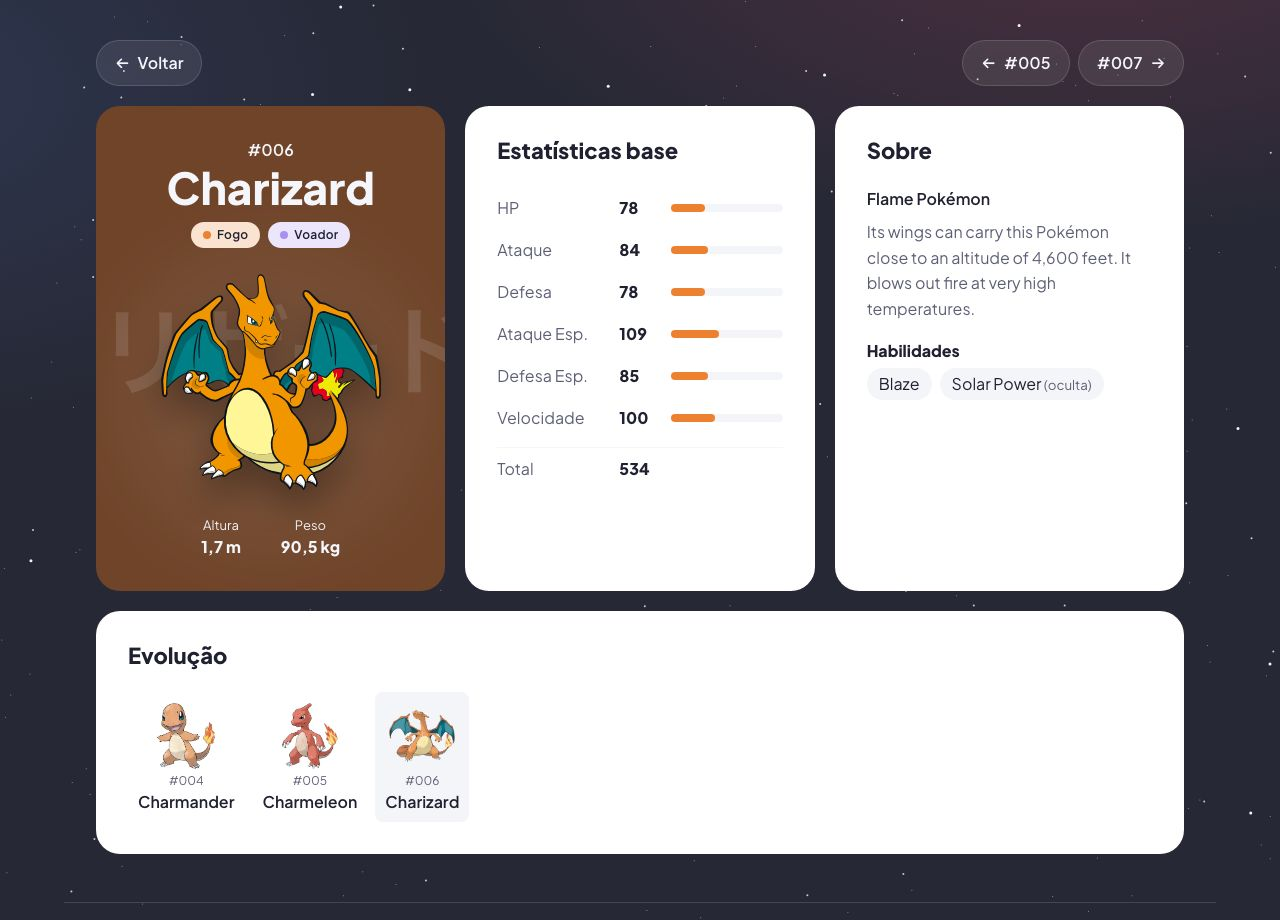
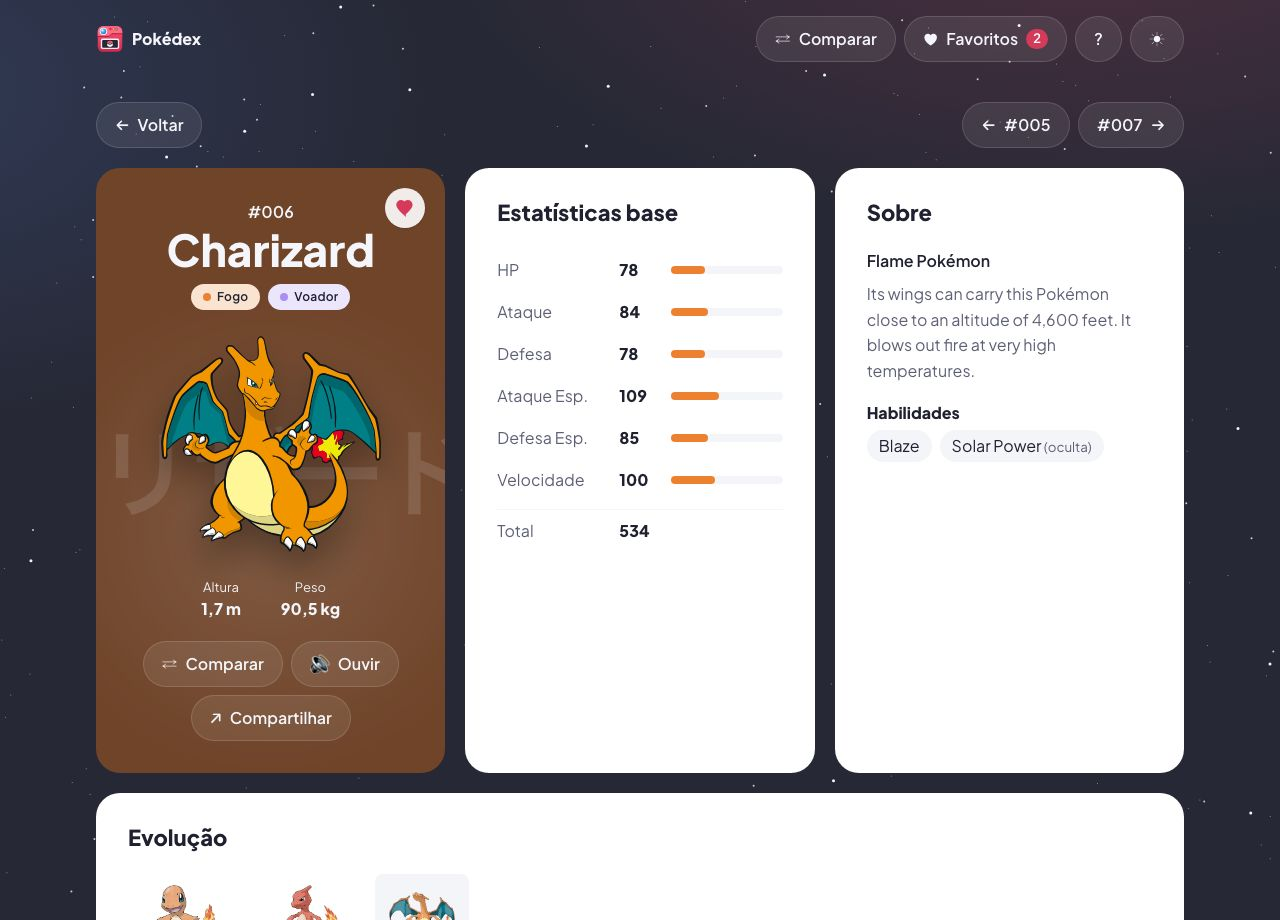
docs: describe the new features, build and tests in the README
Favourites, comparison, sorting, themes, cry and share buttons, PWA,
prerendering with link previews, robots/sitemap, the accessibility
audit, `npm run data`, the production-only e2e checks, and how Vercel
builds the site. Screenshots refreshed.

diff --git a/README.md b/README.md
@@ -10,8 +10,8 @@
 </div>
 
 <p align="center">
-  <img src=".github/assets/home.jpg" alt="Home page filtered by the Fire type: search box, a row of type filters and a grid of Pokémon cards coloured by type, over an animated starry background" width="49%">
-  <img src=".github/assets/details.jpg" alt="Details page for Charizard: previous and next buttons, type-coloured hero with height and weight, base stat bars, an About panel with category, description and abilities, and the evolution chain" width="49%">
+  <img src=".github/assets/home.jpg" alt="Home page filtered by the Fire type: header with Compare, Favourites, shortcuts and theme buttons, search box, type filters, the order select and a grid of Pokémon cards coloured by type with heart buttons, over an animated starry background" width="49%">
+  <img src=".github/assets/details.jpg" alt="Details page for Charizard: previous and next buttons, type-coloured hero with a favourite heart, height and weight, Compare, Listen and Share buttons, base stat bars, an About panel with category, description and abilities, and the evolution chain" width="49%">
 </p>
 
 ## Features
@@ -20,11 +20,17 @@
 - **Search across the whole Pokédex** — by name (`chu` finds Pikachu, Raichu, Pichu…) or by number (`25`, `#150`), including Pokémon that aren't on screen yet. Press <kbd>/</kbd> to jump to the search box and the × button to clear it; it stays at the top while you scroll.
 - **Forgiving search** — a typo with no exact match suggests look-alike names (`pikachuu` → *Você quis dizer:* Pikachu).
 - **Filter by type** — the 18 types, in Portuguese, combine with the search; each type on a details page links to the filtered list.
-- **Shareable state** — the search and the type live in the URL (`?q=char&tipo=fire`), so they survive a refresh or a shared link.
+- **Sort** — by number, name, stat total (highest first) or type, combined with the search and the filter.
+- **Shareable state** — the search, the type and the order live in the URL (`?q=char&tipo=fire&ordem=total`), so they survive a refresh or a shared link.
 - **Coming back where you left off** — *Voltar* returns to the list with the same cards loaded and the same scroll position.
-- **Details page** — Pokédex number, types, height and weight, base stats with proportional bars and their total, category, Pokédex description and abilities (hidden one marked), and a clickable evolution chain (branches such as Eevee's side by side). Previous/next buttons, also on the <kbd>←</kbd> <kbd>→</kbd> keys, browse the Pokédex.
+- **Details page** — Pokédex number, types, height and weight, base stats with proportional bars and their total, category, Pokédex description and abilities (hidden one marked), and a clickable evolution chain (branches such as Eevee's side by side). Previous/next buttons, also on the <kbd>←</kbd> <kbd>→</kbd> keys, browse the Pokédex. Play the Pokémon's cry, or share its page (system share sheet, or the link is copied).
+- **Favourites** — a heart on every card and detail page; *Meus favoritos* lists them (kept in the browser, synced across tabs).
+- **Compare** — up to three Pokémon side by side, their base stats overlaid on a radar chart and in a table (`/comparar?ids=1,4,7`).
+- **Light and dark themes** — following the system until you pick one in the header.
+- **Installable and offline** — a PWA: the app and the Pokémon you've visited work without a connection.
+- **Fast first paint and link previews** — the list and all 1025 detail pages are prerendered at build time, with OpenGraph/Twitter Card tags per Pokémon, a `sitemap.xml` and a `robots.txt`.
 - **Loading, empty and error states** everywhere, with a *retry* when the API is unreachable, and a *page not found* for unknown URLs.
-- **Polished, accessible UI** — cards and pages coloured by type, an animated starry sky, keyboard focus styles, screen-reader labels and announcements, a back-to-top button, and `prefers-reduced-motion` support.
+- **Polished, accessible UI** — cards and pages coloured by type, an animated starry sky, a skip link, keyboard shortcuts (press <kbd>?</kbd>), focus styles, screen-reader labels and announcements, a back-to-top button, and `prefers-reduced-motion` support. Audited with axe (WCAG 2.2 AA) in both themes.
 - **Lean networking** — details, types and evolution chains are cached, requests nobody waits for are cancelled, and the search is debounced.
 
 > The PokéAPI has no Portuguese texts, so the category, description and ability names are shown in English (marked `lang="en"`). Types and stats are translated by the app. See [Known limitations](#known-limitations).
@@ -56,10 +62,11 @@ Then open `http://localhost:4200/`. The app reloads automatically when you chang
 | Command                | Description                                                         |
 | ---------------------- | ------------------------------------------------------------------- |
 | `npm start`            | Start the dev server at `http://localhost:4200/`                    |
-| `npm run build`        | Production build to `dist/pokedex/browser/`                         |
+| `npm run build`        | Production build to `dist/pokedex/browser/`: prerenders every page, checks them, writes `robots.txt` and `sitemap.xml` |
 | `npm run watch`        | Incremental development build                                       |
 | `npm test`             | Run the unit tests with Vitest                                      |
 | `npm run test:e2e`     | Run the end-to-end tests with Playwright (see [Testing](#testing))  |
+| `npm run data`         | Regenerate `src/assets/data/pokemon-summary.json` (stat totals and types, for sorting) |
 | `npm run build-github` | Production build into `docs/` for GitHub Pages (see [Deployment](#deployment)) |
 
 ## Project structure
@@ -68,28 +75,36 @@ Then open `http://localhost:4200/`. The app reloads automatically when you chang
 src/
 ├── app/
 │   ├── models/          # Typed PokéAPI responses
-│   ├── service/         # PokeApiService — the only API layer (index, cached details)
+│   ├── service/         # PokeApiService (the only API layer), favourites, theme, SEO tags
 │   ├── pages/
 │   │   ├── home/        # Hero + Pokémon list
 │   │   ├── details/     # Pokémon details, previous/next
+│   │   ├── favorites/   # Meus favoritos
+│   │   ├── compare/     # Side-by-side comparison
 │   │   └── not-found/   # Page for unknown URLs
 │   ├── shared/
 │   │   ├── poke-list/   # Search, type filter, look-alike names, infinite scroll, states
 │   │   ├── poke-card/   # A card that loads its own Pokémon
 │   │   ├── poke-search/ # Debounced search box with clear button and "/" shortcut
-│   │   ├── poke-stats/  # Base stats with bars and total
 │   │   ├── poke-about/  # Category, description and abilities
 │   │   ├── poke-evolution/ # Evolution chain
+│   │   ├── poke-header/ # Top bar: home, compare, favourites, shortcuts, theme
+│   │   ├── poke-favorite/, poke-share/, poke-cry/ # Heart, share and cry buttons
+│   │   ├── poke-radar/  # Radar chart of base stats
+│   │   ├── poke-shortcuts/ # Keyboard shortcuts dialog
+│   │   ├── poke-stats/  # Base stats with bars and total
 │   │   ├── poke-footer/ # Credits
 │   │   ├── directives/  # InViewportDirective (infinite scroll trigger)
 │   │   └── pipes/       # DexNumberPipe (#001), SpritePipe (artwork fallback), TypeNamePipe (pt-BR)
-│   ├── app.config.ts
+│   ├── app.config.ts    # + app.config.server.ts, app.routes.server.ts (prerendering)
 │   └── app.routes.ts
-├── assets/              # Icons, illustrations
+├── assets/              # Icons, illustrations, data/pokemon-summary.json
 ├── config-scss/         # Global SCSS: tokens, reset, type colours, starfield, animations…
 └── styles.scss
 e2e/                     # Playwright end-to-end tests (*.e2e.ts)
-scripts/github-pages.mjs # Post-build step for the GitHub Pages deploy
+scripts/                 # Post-build checks, robots/sitemap, data and GitHub Pages steps
+ngsw-config.json         # Service worker caching (PWA)
+vercel.json              # Vercel build, output and fallback
 docs/                    # Built site served by GitHub Pages
 ```
 
@@ -101,7 +116,7 @@ docs/                    # Built site served by GitHub Pages
 npm test
 ```
 
-Specs live next to their subject (`*.spec.ts`) and cover the API service (caching, cancellation), the list (paging, search, type filter, look-alike names, URL sync, restoring the loaded cards, states), cards, the details page and its panels, the search box, the infinite-scroll directive and the pipes. To run a single file or test:
+Specs live next to their subject (`*.spec.ts`) and cover the API service (caching, cancellation, prerender state transfer), the list (paging, search, type filter, sorting, look-alike names, URL sync, restoring the loaded cards, loading states), cards, the details page and its panels, favourites, comparison, theme, SEO tags, shortcuts, the search box, the infinite-scroll directive and the pipes. To run a single file or test:
 
 ```bash
 npx ng test --include='**/poke-list.component.spec.ts'
@@ -115,9 +130,10 @@ npx playwright install chromium   # once
 npm run test:e2e
 ```
 
-The suite in `e2e/` drives Chromium through search, the type filter, the details page and coming back to the list. It uses the dev server (a running `npm start` is reused, otherwise one is started) and the real PokéAPI, so it needs internet access. To test a deployed site instead:
+The suite in `e2e/` drives Chromium through search, the type filter, sorting, the details page, coming back to the list, favourites and comparison, and runs an accessibility audit (axe, WCAG 2.2 AA, both themes) with keyboard checks. It uses the dev server (a running `npm start` is reused, otherwise one is started) and the real PokéAPI, so it needs internet access. Some checks need a production build and are skipped on the dev server: `robots.txt`/`sitemap.xml`, the link-preview tags in the prerendered HTML, and the PWA (manifest, offline). Run them against a build, served locally or deployed:
 
 ```bash
+npm run build
 E2E_BASE_URL=https://pokedex.mocah.com.br npm run test:e2e
 ```
 
@@ -125,9 +141,9 @@ A failed test keeps a trace in `test-results/`; open the report with `npx playwr
 
 ## Deployment
 
-The live app, [pokedex.mocah.com.br](https://pokedex.mocah.com.br/), is built and published by Vercel on every push to `main` (default `npm run build`, base href `/`).
+The live app, [pokedex.mocah.com.br](https://pokedex.mocah.com.br/), is built and published by Vercel on every push to `main`, as set in `vercel.json`: `npm run build` prerenders the list and the 1025 detail pages into static HTML (Angular SSR in `outputMode: "static"` — no server runs at request time), fails if any page came out without its Pokémon (Vercel then keeps the previous deployment), and writes `robots.txt` and `sitemap.xml`. Other URLs fall back to `index.csr.html`. Set `SITE_URL` to publish under another domain.
 
-A mirror is published to GitHub Pages from the `docs/` folder on `main`. To update it:
+A mirror is published to GitHub Pages from the `docs/` folder on `main`; it is client-rendered (no prerendering, no service worker) to keep `docs/` small. To update it:
 
 ```bash
 npm run build-github   # production build into docs/ with base href /pokedex/
